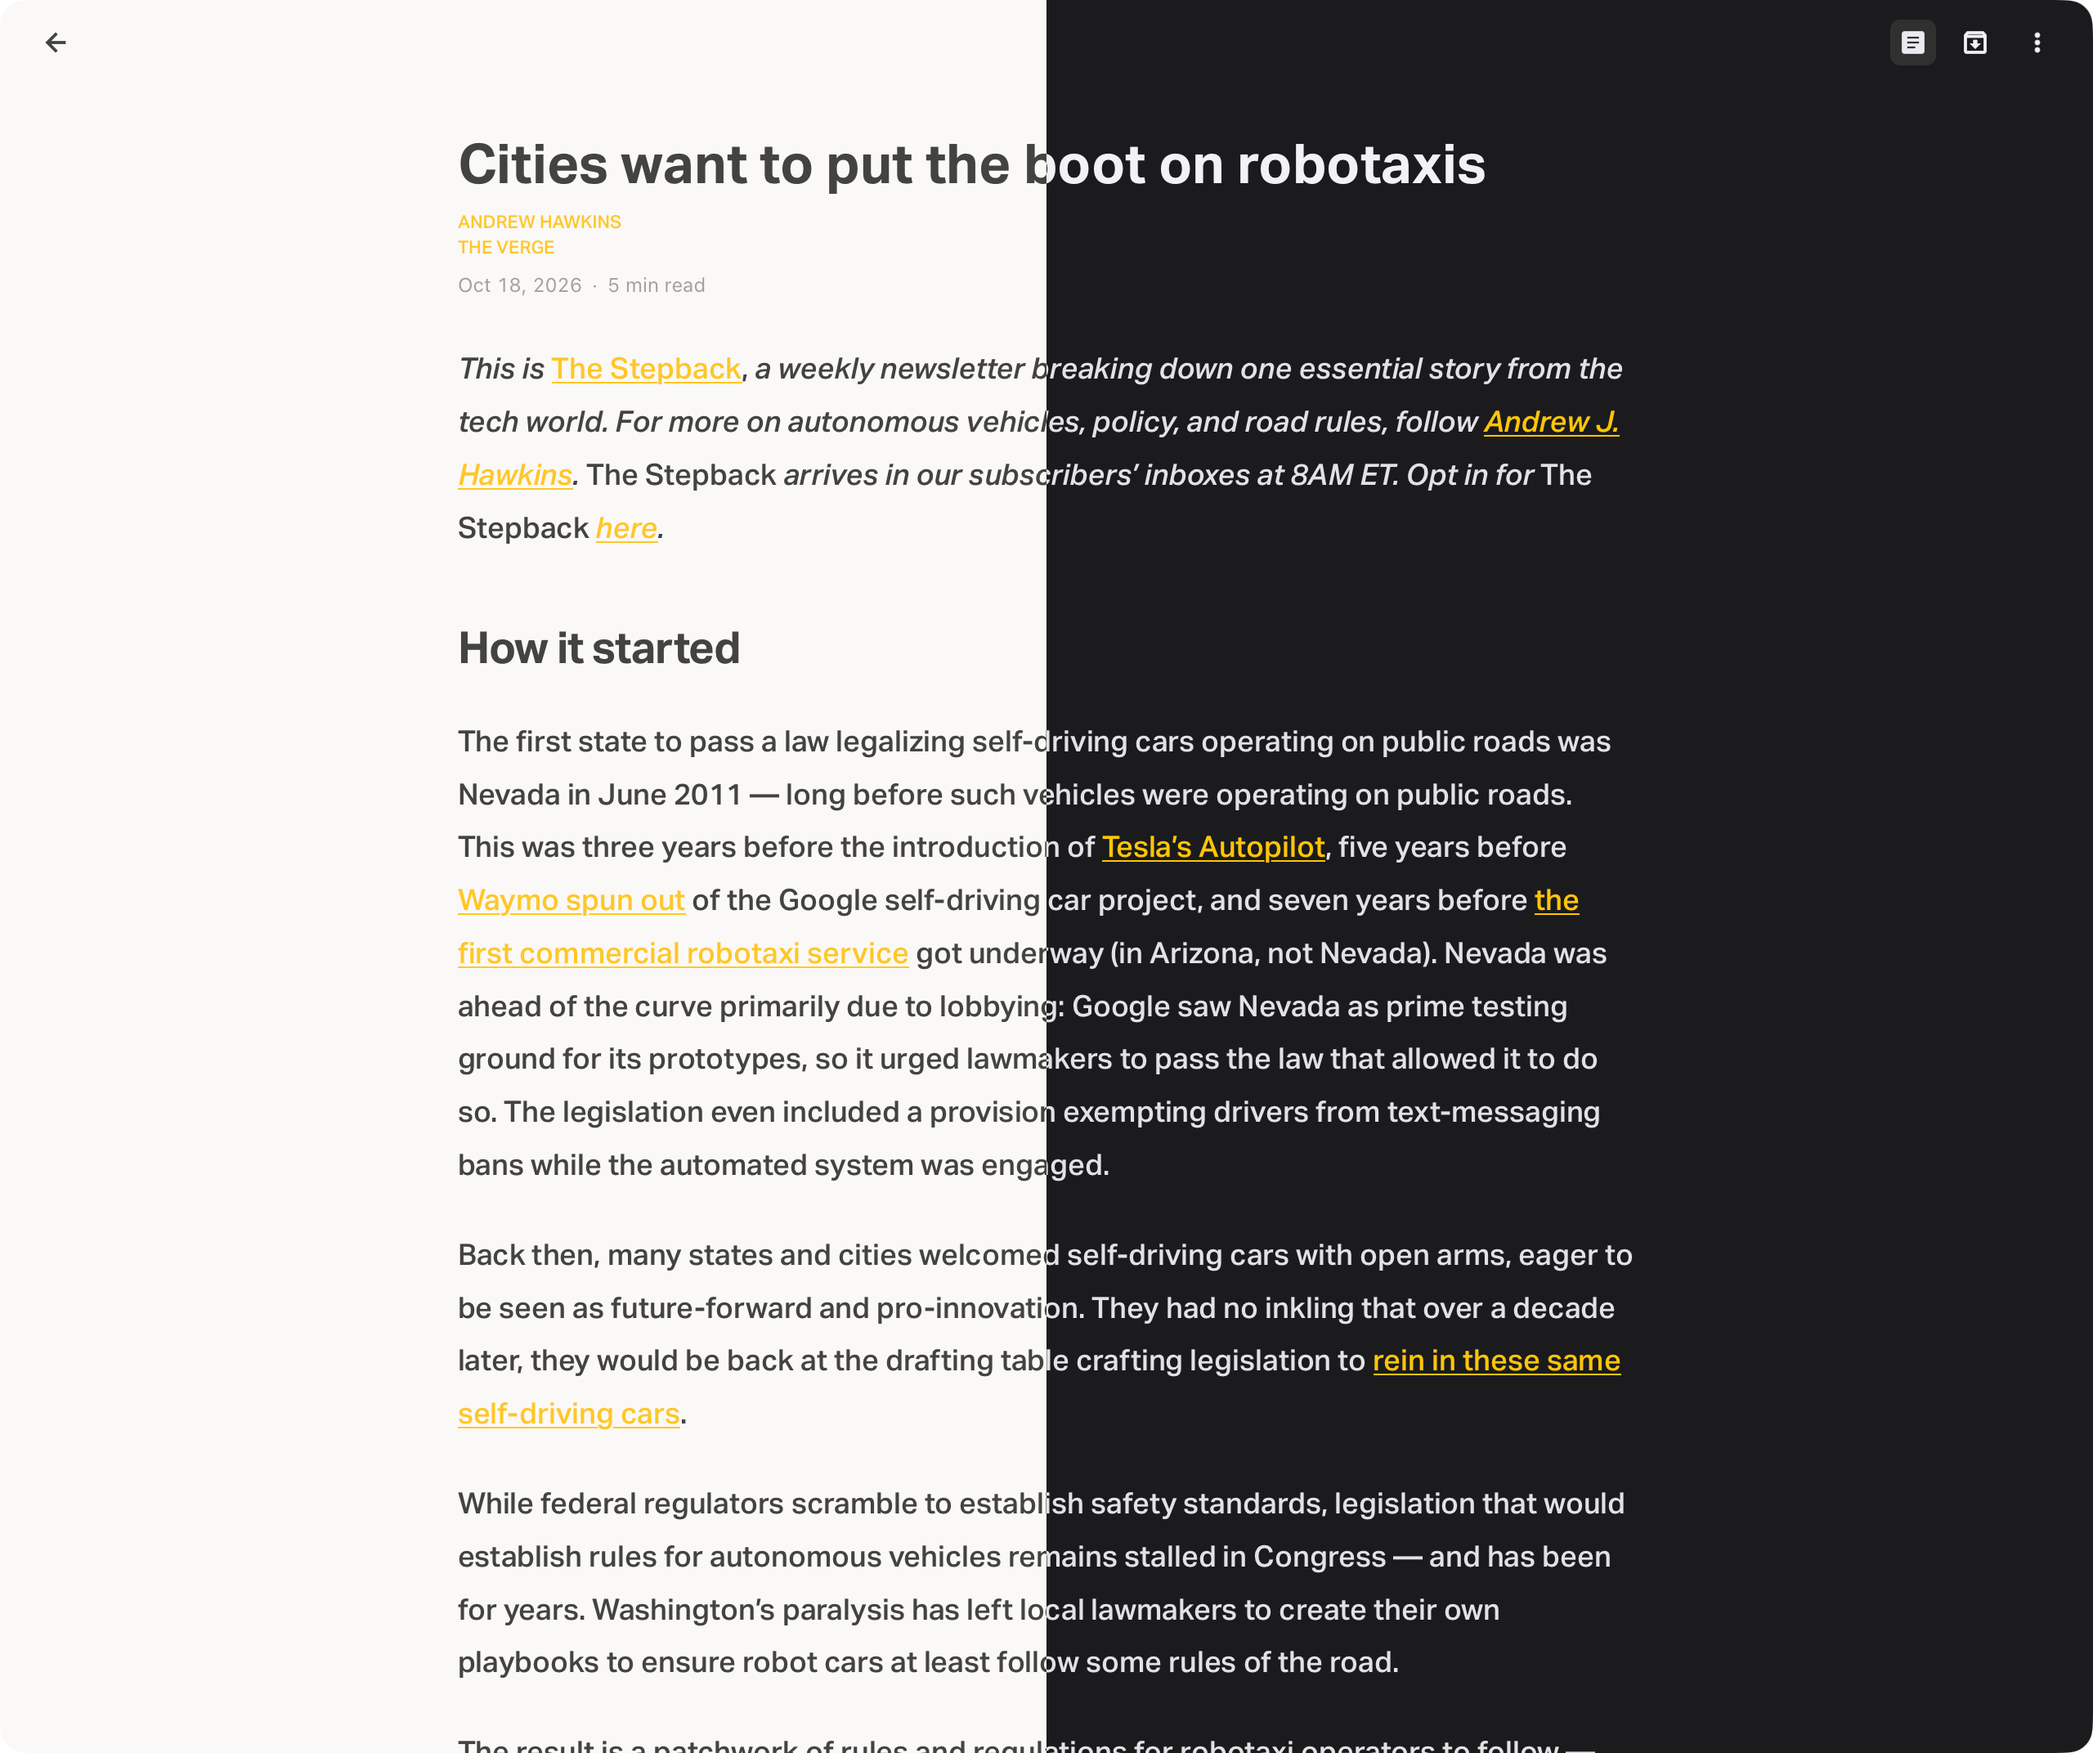
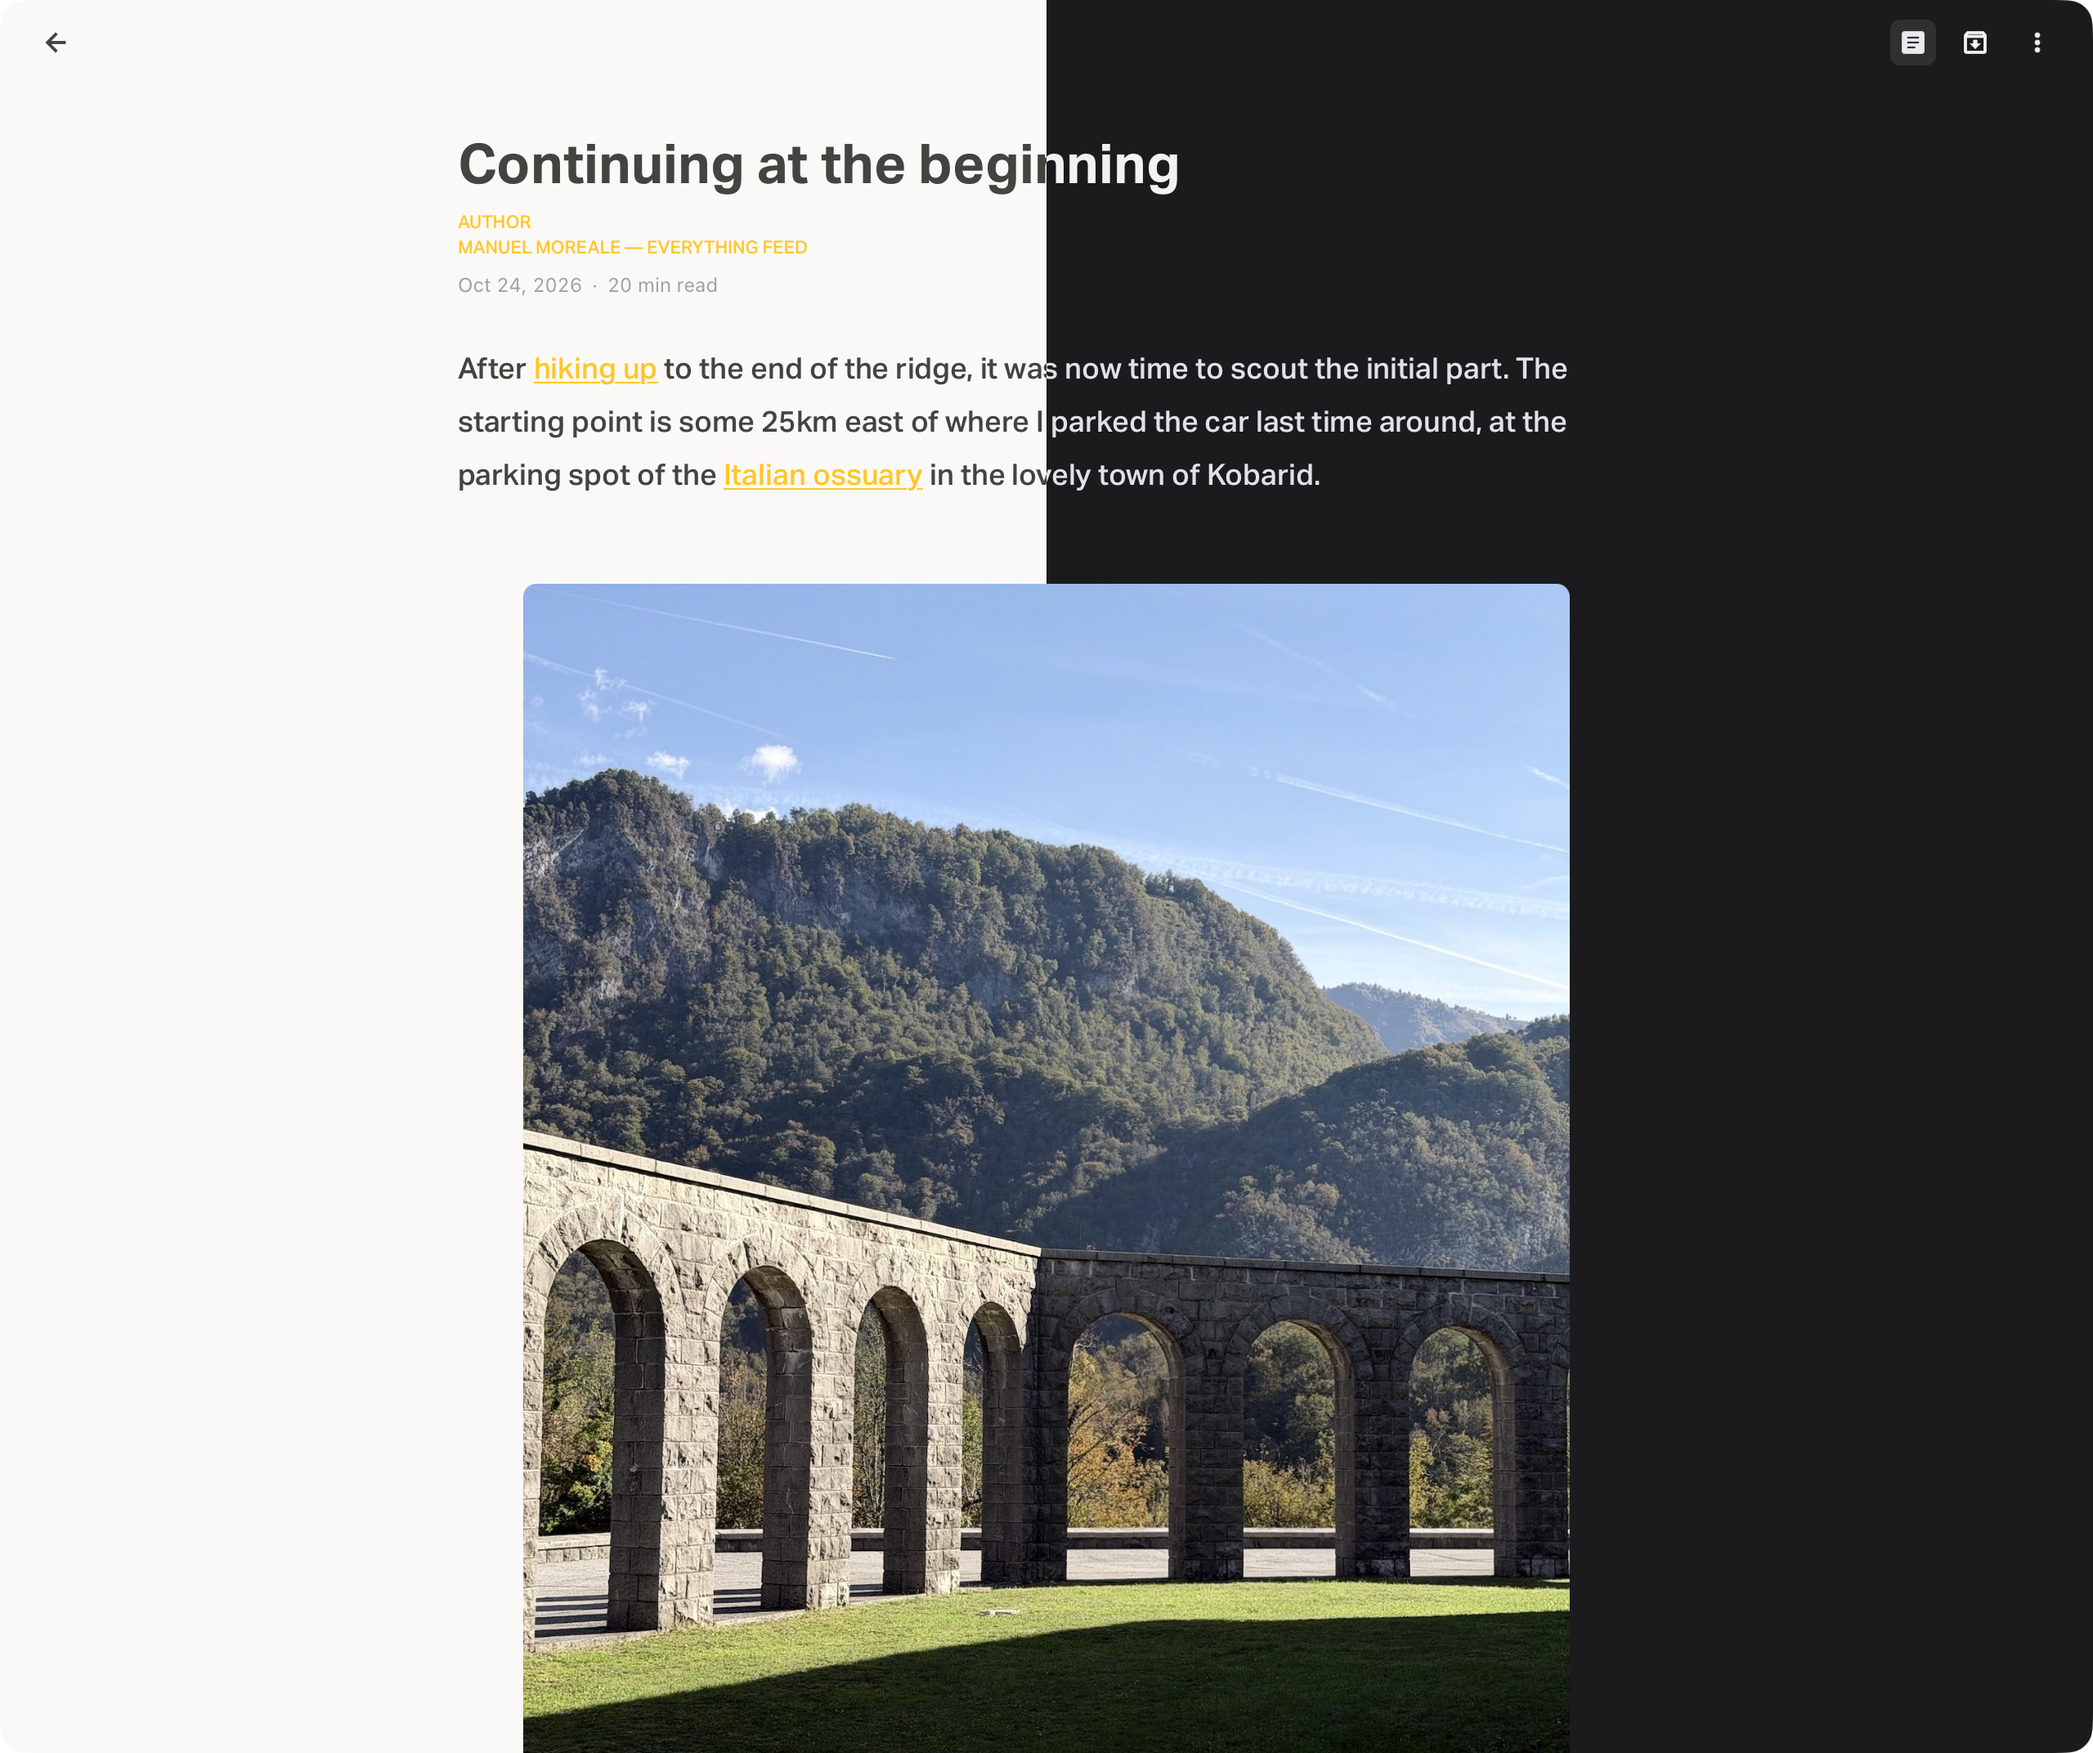
Use Awesome Tech large cover list as hero and refresh reader shot

diff --git a/src/i18n/ja.ts b/src/i18n/ja.ts
@@ -75,7 +75,7 @@ const ja: LocalizedText = {
     subscribeCta: '更新を購読',
     captureLight: 'ライト',
     captureDark: 'ダーク',
-    captureTechAlt: '「Tech」ステーションを表示した KiJi。左半分がライト、右半分がダーク',
+    captureTechAlt: '「Awesome Tech」ステーションを大きなカバー画像で表示した KiJi。左半分がライト、右半分がダーク',
     captureLanguagesTitle: 'どの言語のフィードでも',
     captureLanguagesAlt: '英語、日本語、中国語のステーションを並べて表示した KiJi',
     captureReaderAlt: 'KiJi のリーダーモードで表示した記事。左半分がライト、右半分がダーク',

diff --git a/src/i18n/en.ts b/src/i18n/en.ts
@@ -75,7 +75,7 @@ const en: LocalizedText = {
     subscribeCta: 'Subscribe to updates',
     captureLight: 'Light',
     captureDark: 'Dark',
-    captureTechAlt: 'KiJi showing the Tech station, in the light version on the left and the dark version on the right',
+    captureTechAlt: 'KiJi showing the Awesome Tech station with large cover images, in the light version on the left and the dark version on the right',
     captureLanguagesTitle: 'Feeds in any language',
     captureLanguagesAlt: 'KiJi showing English, Japanese and Chinese stations side by side',
     captureReaderAlt: 'An article in KiJi reader mode, in the light version on the left and the dark version on the right',

diff --git a/src/i18n/zh-Hans.ts b/src/i18n/zh-Hans.ts
@@ -75,7 +75,7 @@ const zhHans: LocalizedText = {
     subscribeCta: '订阅更新',
     captureLight: '浅色',
     captureDark: '深色',
-    captureTechAlt: 'KiJi 显示“Tech”站点，左半为浅色版本，右半为深色版本',
+    captureTechAlt: 'KiJi 以大封面图显示“Awesome Tech”站点，左半为浅色版本，右半为深色版本',
     captureLanguagesTitle: '任何语言的订阅',
     captureLanguagesAlt: 'KiJi 并排显示英文、日文和中文站点',
     captureReaderAlt: 'KiJi 阅读模式下的文章，左半为浅色版本，右半为深色版本',
